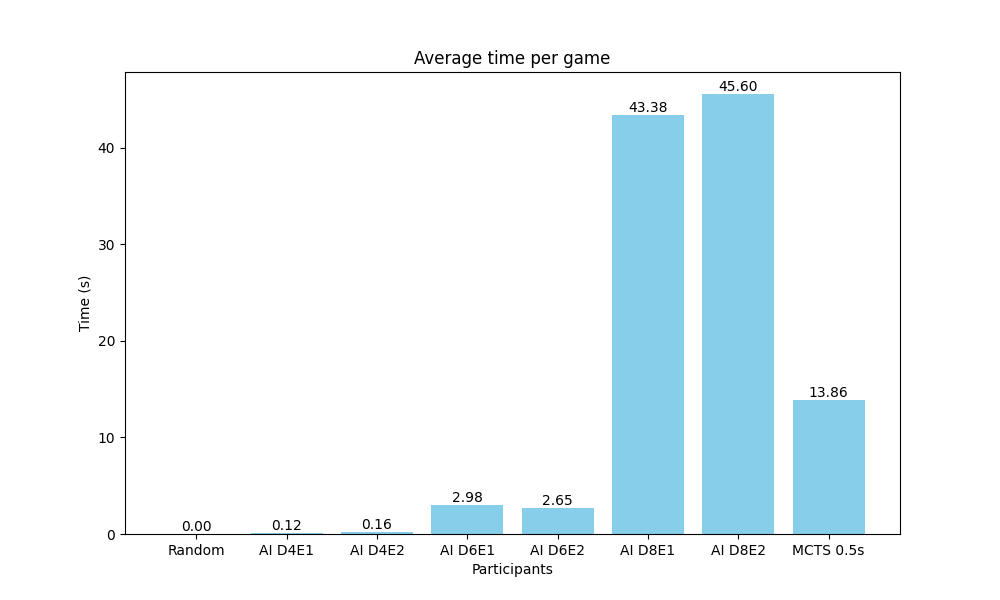
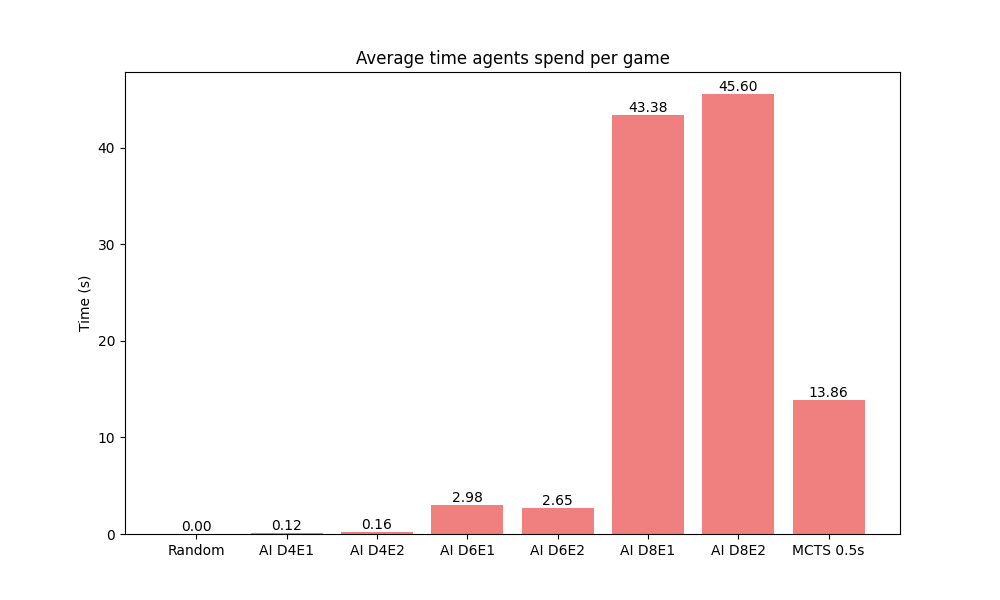
Update the styles of the charts

Changed region(s): [[0.341, 0.15, 0.868, 0.9], [0.341, 0.09, 0.682, 0.12], [0.465, 0.93, 0.558, 0.96]]

diff --git a/data_analyze.py b/data_analyze.py
@@ -55,14 +55,17 @@ def analyze_glicko2(data, total_games=100):
     ratings = [player_obj.rating for player_obj in glicko_players.values()]
     player_names = list(glicko_players.keys())
     plt.figure(figsize=(10, 6))
-    plt.bar(player_names, ratings, color='b')
+    bars = plt.bar(player_names, ratings, color='b')
     plt.axhline(y=1500, color='r', linestyle='--')  # Horizontal line at y=1500
-    plt.title('Skill level of participants (Glicko-2 Ratings)')
-    plt.xlabel('Participants')
+    plt.title('Skill level of agents (using Glicko-2 ratings system)')
+    # plt.xlabel('Agents')
     plt.ylabel('Rating')
+
+    for bar in bars:
+        plt.text(bar.get_x() + bar.get_width()/2, bar.get_height(), f'{bar.get_height():.2f}', ha='center', va='bottom')
     plt.show()
 
-    # Extract the data from the csv file as {(player 1, player 2): (x_wins, o_wins)}
+
 def show_matchup_data(data):
     player_names = data.columns[1:]
     matchup_data = [[extract_wins(player_row[opponent]) for opponent in data.columns[1:]] for _, player_row in data.iterrows()]
@@ -71,7 +74,7 @@ def show_matchup_data(data):
     df = pd.DataFrame(matchup_data, index=player_names, columns=player_names)
     
     # Display the matchup data as a table
-    plt.figure(figsize=(12, 8))
+    plt.figure(figsize=(12, 3))
     plt.axis('off')
     plt.title('Matchup Data Table')
     
@@ -84,7 +87,7 @@ def show_matchup_data(data):
     
     # Adjust table properties for better readability
     table.auto_set_font_size(False)
-    table.set_fontsize(9)
+    table.set_fontsize(10)
     table.scale(1.2, 1.2)
     
     # Add color coding based on win ratios
@@ -100,6 +103,7 @@ def show_matchup_data(data):
     
     plt.tight_layout()
     plt.show()
+
 
 def show_compared_data(data, baseline_name, total_games=100):
     player_names = data.columns[1:]
@@ -130,8 +134,8 @@ def show_compared_data(data, baseline_name, total_games=100):
     # Plotting the baseline data with win rates displayed on each bar
     plt.figure(figsize=(10, 6))
     bars = plt.bar(baseline.keys(), baseline.values(), color='skyblue')
-    plt.title(f'Baseline Win Rates ({baseline_name})')
-    plt.xlabel('Opponent')
+    plt.title(f'{baseline_name} as a baseline')
+    # plt.xlabel('Opponent')
     plt.ylabel('Win Rate')
     plt.xticks(rotation=45)
     plt.tight_layout()
@@ -162,9 +166,9 @@ def show_durations(data, total_games=100):
                 durations[o_name] = (saved_duration + o_duration) / 2
 
     plt.figure(figsize=(10, 6))
-    bars = plt.bar(durations.keys(), durations.values(), color='skyblue')
-    plt.title('Average time per game')
-    plt.xlabel('Participants')
+    bars = plt.bar(durations.keys(), durations.values(), color='lightcoral')
+    plt.title('Average time agents spend per game')
+    # plt.xlabel('Participants')
     plt.ylabel('Time (s)')
 
     for bar in bars:
